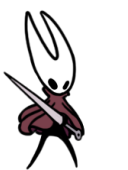
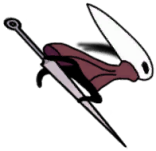
fix some bugs

diff --git a/SilkSong/Source/Project/Player.cpp b/SilkSong/Source/Project/Player.cpp
@@ -52,7 +52,7 @@ Player::Player()
 
 	rigid = GetComponentByClass<RigidBody>();
 	rigid->SetLinearDrag(0.07f);
-	rigid->SetGravity(2250);
+	rigid->SetGravity(2750);
 
 	camera = GetComponentByClass<Camera>();
 	camera->SetDistanceThreshold(100);
@@ -110,11 +110,11 @@ Player::Player()
 			Effect* effect = GameplayStatics::CreateObject<Effect>(GetWorldPosition() - FVector2D(GetWorldScale().x * 150, 0));
 			if (bGround)
 			{
-				effect->Init("effect_dash"); effect->SetLocalScale(GetWorldScale());
+				effect->Init("effect_dash", -0.03f); effect->SetLocalScale({ -GetWorldScale().x,1.f }); effect->AddPosition({ -GetWorldScale().x * 125,-50 });
 			}
 			else
 			{
-				effect->Init("effect_dash_", -0.03f); effect->SetLocalScale({ -GetWorldScale().x,1.f }); effect->AddPosition({ -GetWorldScale().x * 125,-50 });
+				effect->Init("effect_airdash", -0.02f); effect->SetLocalScale(GetWorldScale()); 
 			}
 			bDashing = true;
 		});
@@ -134,8 +134,8 @@ Player::Player()
 			Dart* dart = GameplayStatics::CreateObject<Dart>(GetWorldPosition());
 			if (dart)dart->Init(GetWorldScale().x < 0);
 			Effect* effect = GameplayStatics::CreateObject<Effect>(GetWorldPosition());
-			effect->Init("effect_throw", -0.02f); effect->SetLocalScale(GetLocalScale());
-			effect->AddPosition({GetLocalScale().x * 50,0});
+			effect->Init("effect_throw", -0.02f); effect->SetLocalScale(GetLocalScale() * 0.9f);
+			effect->AddPosition({GetLocalScale().x * 75,0});
 			AddDart(-1);
 		});
 	ani->needleSpawn.Bind([this]()
@@ -416,11 +416,11 @@ void Player::SetupInputComponent(InputComponent* inputComponent)
 		if (bGround)
 		{
 			bGround = false; SpawnWetLandEffect();
-			rigid->AddImpulse({ 0,-750 });
+			rigid->AddImpulse({ 0,-1250 });
 			if (bRushing)ani->PlayMontage("rushjump");
 			else ani->PlayMontage("jump");
 			lastJumpTime = GameplayStatics::GetTimeSeconds();
-			int32 jumpNum = FMath::RandInt(0, 25);
+			int32 jumpNum = FMath::RandInt(0, 35);
 			if (jumpNum < 3)GameModeHelper::PlayFXSound("voice_jump_0");
 			else if (jumpNum < 6)GameModeHelper::PlayFXSound("voice_jump_1");
 			else if (jumpNum < 9)GameModeHelper::PlayFXSound("voice_jump_2");
@@ -430,10 +430,10 @@ void Player::SetupInputComponent(InputComponent* inputComponent)
 		else if (bWall)
 		{
 			AddPosition(FVector2D(GetWorldScale().x * 10.f, -10.f));
-			rigid->AddImpulse(FVector2D(GetWorldScale().x * 500, -650)); 
+			rigid->AddImpulse(FVector2D(GetWorldScale().x * 500, -750)); 
 			ani->PlayMontage("jump");
 			lastJumpTime = GameplayStatics::GetTimeSeconds();
-			int32 jumpNum = FMath::RandInt(0, 25);
+			int32 jumpNum = FMath::RandInt(0, 35);
 			if (jumpNum < 3)GameModeHelper::PlayFXSound("voice_jump_0");
 			else if (jumpNum < 6)GameModeHelper::PlayFXSound("voice_jump_1");
 			else if (jumpNum < 9)GameModeHelper::PlayFXSound("voice_jump_2");
@@ -447,14 +447,14 @@ void Player::SetupInputComponent(InputComponent* inputComponent)
 		{
 			float delta = GameplayStatics::GetTimeSeconds() - lastJumpTime;
 			bGround = false; ani->SetBool("flying", true); 
-			rigid->AddImpulse(FVector2D(0, -(6.f - FMath::Log(1 + delta < 0.06f ? 0 : FMath::Abs(rigid->GetVelocity().y)) / FMath::Log(10)) / jumpFlag));
+			rigid->AddImpulse(FVector2D(0, -(3.5f - FMath::Log(1 + delta < 0.06f ? 0 : FMath::Abs(rigid->GetVelocity().y)) / FMath::Log(10)) / jumpFlag));
 		}
 		});
 	inputComponent->BindAction("JumpEnd", EInputType::Released, [this]() {
 		if (bSitting || bWall) return;
-		if (rigid->GetVelocity().y < 0 && GameplayStatics::GetTimeSeconds() - lastJumpTime < 0.3f)
+		if (rigid->GetVelocity().y < 0 && GameplayStatics::GetTimeSeconds() - lastJumpTime < 0.25f)
 		{
-			rigid->SetVelocity(FVector2D(rigid->GetVelocity().x, -rigid->GetVelocity().y * 0.05f));
+			rigid->SetVelocity(FVector2D(rigid->GetVelocity().x, FMath::Clamp(-rigid->GetVelocity().y * 0.2f, 0.f, 800.f)));
 		}
 		});
 	inputComponent->BindAction("Attack", EInputType::Pressed, [this]() {
@@ -552,7 +552,7 @@ void Player::SetupInputComponent(InputComponent* inputComponent)
 		lastThrowTime = GameplayStatics::GetTimeSeconds();
 		ani->PlayMontage("throw"); 
 		GameModeHelper::PlayFXSound("sound_throw");
-		if (FMath::RandInt(0, 10) > 6)GameModeHelper::PlayFXSound("voice_throw");
+		if (FMath::RandInt(0, 11) > 8)GameModeHelper::PlayFXSound("voice_throw");
 		});
 	inputComponent->BindAction("Leave", EInputType::Pressed, [this]() {
 		if (bSitting || bWall) return;
@@ -613,8 +613,8 @@ void Player::OnEnter(Collider* hitComp, Collider* otherComp, Actor* otherActor, 
 		}
 		else
 		{
-			if (rigid->GetVelocity().y > 1350)GameModeHelper::PlayFXSound("sound_hardland");
-			else if (rigid->GetVelocity().y > 700)GameModeHelper::PlayFXSound("sound_softland");
+			if (rigid->GetVelocity().y > 1500)GameModeHelper::PlayFXSound("sound_hardland");
+			else if (rigid->GetVelocity().y > 800)GameModeHelper::PlayFXSound("sound_softland");
 			else GameModeHelper::PlayFXSound("sound_land");
 		}
 	}

diff --git a/SilkSong/Source/Engine/Tools/ResourceManager.cpp b/SilkSong/Source/Engine/Tools/ResourceManager.cpp
@@ -24,11 +24,11 @@ void ResourceManager::Initialize()
 	Load("player_jump", "Asset/Animations/Player/Jump/", { {124,160},{120,172},{116,172},{104,168},{108,168},{143,163} });
 	Load("player_rushjump", "Asset/Animations/Player/RushJump/", { {171,115},{204,144},{198,180},{186,183},{186,192},{195,195},
 		{198,183},{124,182},{140,171},{146,168},{198,180},{104,168},{108,168},{143,163} });
-	Load("player_fall", "Asset/Animations/Player/Fall/", 132, 168, 4);
+	Load("player_fall", "Asset/Animations/Player/Fall/", { {132,168},{147,157},{132,148},{140,146},{148,152} });
 	Load("player_softland", "Asset/Animations/Player/SoftLand/", { {152,166},{152,166},{152,166},{137,161},{147,160} });
 	Load("player_hardland", "Asset/Animations/Player/HardLand/", 164, 152, 4);
-	Load("player_attack_0", "Asset/Animations/Player/Attack_0/", { {122,162},{364,183},{321,178},{300,178},{174,144},{152,166} });
-	Load("player_attack_1", "Asset/Animations/Player/Attack_1/", { {122,162},{315,156},{321,159},{321,159},{174,144},{152,166} });
+	Load("player_attack_0", "Asset/Animations/Player/Attack_0/", { {122,162},{364,183},{321,178},{300,178},{174,144} });
+	Load("player_attack_1", "Asset/Animations/Player/Attack_1/", { {122,162},{315,156},{321,159},{321,159},{174,144} });
 	Load("player_attackup", "Asset/Animations/Player/AttackUp/", { {160,188},{184,389},{184,222},{184,269},{152,168} });
 	Load("player_attackdown", "Asset/Animations/Player/AttackDown/", { {111,193},{103,196},{250,263},{225,225},{192,143} });
 	Load("player_rushattack", "Asset/Animations/Player/RushAttack/", { {166,156},{155,176},{180,176},{300,164},{339,164},{400,120},{400,121},{109,121},{174,148} });
@@ -39,7 +39,7 @@ void ResourceManager::Initialize()
 	Load("player_cure", "Asset/Animations/Player/Cure/", { {343,252},{565,570},{580,490},{450,495},{451,495},{451,216},{155,250},{114,225},
 		{433,360},{444,368},{963,660},{1040,600},{1035,600},{1025,520} });
 	Load("player_hurt", "Asset/Animations/Player/Hurt/", 228, 172, 6);
-	Load("player_throw", "Asset/Animations/Player/Throw/", { {127,170}, {127,170}, {127,170}, {127,170}, {104,142}, {104,142}, {104,142}, {104,142}, {177,163},{177,163},{177,163},{177,163} });
+	Load("player_throw", "Asset/Animations/Player/Throw/", { {112,174}, {156,151}, {176,142}, {161,144}, {174,148} });
 	Load("player_grab", "Asset/Animations/Player/Grab/", { {140,180}, {141,198}, {142,194}, {138,196}, {170,134}, {160,110}, {170,120}, {184,132}, {174,166} });
 	Load("player__closeskill", "Asset/Animations/Player/_CloseDisSkill/", 179, 152, 3);
 	Load("player_closeskill", "Asset/Animations/Player/CloseDisSkill/", 179, 152, 7);
@@ -63,8 +63,8 @@ void ResourceManager::Initialize()
 	Load("player_scare", "Asset/Animations/Player/Scare.png", 164, 164, 1, 1, 1);
 
 	//Effect
-	Load("effect_dash", "Asset/Animations/Player/DashEffect/", 342, 433, 5);
-	Load("effect_dash_", "Asset/Animations/Player/DashEffect_.png", 1280, 856, 6, 3, 2);
+	Load("effect_dash", "Asset/Animations/Player/DashEffect.png", 1280, 856, 6, 3, 2);
+	Load("effect_airdash", "Asset/Animations/Player/AirDashEffect/", 342, 433, 5);
 	Load("effect_hurt", "Asset/Animations/Player/HurtEffect/", 1400, 470, 4);
 	Load("effect_hurt_", "Asset/Animations/Player/HurtEffect_/", 308, 270, 7);
 	Load("effect_wetland", "Asset/Animations/Player/WetLandEffect/", 115, 34, 5);

diff --git a/SilkSong/Source/Project/PlayerAnimator.cpp b/SilkSong/Source/Project/PlayerAnimator.cpp
@@ -11,19 +11,20 @@ PlayerAnimator::PlayerAnimator()
 	walk.Load("player_walk");
 	walk.SetInterval(0.085f);
 	walkstart.Load("player_walkstart");
-	walkstart.SetInterval(0.04f);
+	walkstart.SetInterval(0.03f);
 	walkend.Load("player_walkend");
-	walkend.SetInterval(0.06f);
+	walkend.SetInterval(0.05f);
 	rush.Load("player_rush", { 0,15 });
 	rush.SetInterval(0.075f);
 	turn.Load("player_turn");
 	turn.SetInterval(0.08f);
 	jump.Load("player_jump");
-	jump.SetInterval(0.07f);
+	jump.SetInterval(0.06f);
 	rushjump.Load("player_rushjump");
 	rushjump.SetInterval(0.04f);
 	fall.Load("player_fall");
-	fall.SetInterval(0.08f);
+	fall.SetInterval(0.06f);
+	fall.SetLooping(false);
 	hardland.Load("player_hardland");
 	hardland.SetInterval(0.09f);
 	softland.Load("player_softland");
@@ -192,6 +193,9 @@ void PlayerAnimator::BeginPlay()
 	dash_to_idle.Init(dash, idle);
 	airdash_to_fall.Init(airdash, fall);
 	throw_to_idle.Init(throw_, idle);
+	throw_to_softland.Init(throw_, softland);
+	throw_to_softland.AddCondition(AnimTransition::Bool{ "flying",false });
+	throw_to_softland.AddCondition(AnimTransition::Float{ "walkingSpeed",10.f,TransitionComparison::Less });
 	grab_to_idle.Init(grab, idle);
 	rapidskill_to_idle.Init(rapidskill, idle);
 	remoteskill_to_idle.Init(remoteskill, idle);
@@ -221,11 +225,11 @@ void PlayerAnimator::BeginPlay()
 	rush_to_fall.AddCondition(AnimTransition::Bool{ "flying",true });
 
 	fall_to_hardland.Init(fall, hardland);
-	fall_to_hardland.AddCondition(AnimTransition::Float{ "landingSpeed",1350.f,TransitionComparison::Greater });
+	fall_to_hardland.AddCondition(AnimTransition::Float{ "landingSpeed",1500.f,TransitionComparison::Greater });
 
 	fall_to_softland.Init(fall, softland);
-	fall_to_softland.AddCondition(AnimTransition::Float{ "landingSpeed",1350.f,TransitionComparison::LessEqual });
-	fall_to_softland.AddCondition(AnimTransition::Float{ "landingSpeed",700.f,TransitionComparison::Greater });
+	fall_to_softland.AddCondition(AnimTransition::Float{ "landingSpeed",1500.f,TransitionComparison::LessEqual });
+	fall_to_softland.AddCondition(AnimTransition::Float{ "landingSpeed",800.f,TransitionComparison::Greater });
 	fall_to_softland.AddCondition(AnimTransition::Float{ "walkingSpeed",100.f,TransitionComparison::Less });
 
 	fall_to_idle.Init(fall, idle);
@@ -291,7 +295,7 @@ void PlayerAnimator::BeginPlay()
 		rush.AddNotification(3, wetWalkEffect);
 		rush.AddNotification(7, wetWalkEffect);
 		closeskill.OnAnimExit.Bind([=]() {player->SetFloating(false); });
-		throw_.AddNotification(3, dartSpawn);
+		throw_.AddNotification(2, dartSpawn);
 		grab.AddNotification(3, grabStart);
 		grab.AddNotification(5, grabFinished);
 		grab.OnAnimExit.Bind([=]() {player->EnableInput(true); });

diff --git a/SilkSong/Source/Project/NightMare.cpp b/SilkSong/Source/Project/NightMare.cpp
@@ -125,7 +125,7 @@ NightMare::NightMare()
 	airdash.OnAnimEnter.Bind([this]() {
 		rigid->AddImpulse(FVector2D(-GetWorldScale().x, 1) * 10000 * 2500);
 		box->SetSize({ 40,120 }); SetLocalRotation(-45.f);
-		GameplayStatics::CreateObject<Effect>(GetWorldPosition(), GetWorldScale().x < 0 ? -45.f : -135.f)->Init("effect_dash");
+		GameplayStatics::CreateObject<Effect>(GetWorldPosition(), GetWorldScale().x < 0 ? -45.f : -135.f)->Init("effect_airdash");
 		GameModeHelper::PlayFXSound("sound_nightmare_airdash");
 		});
 	airdash.OnAnimExit.Bind([this]() { SetLocalRotation(0); rigid->SetVelocity({}); });
@@ -139,7 +139,7 @@ NightMare::NightMare()
 
 	dash.OnAnimEnter.Bind([this]() {
 		rigid->AddImpulse(FVector2D(-GetWorldScale().x * 0.75f, 0) * 10000 * 2500);
-		GameplayStatics::CreateObject<Effect>(GetWorldPosition() - FVector2D(0, 25), 0, GetWorldScale())->Init("effect_dash_", -0.02f);
+		GameplayStatics::CreateObject<Effect>(GetWorldPosition() - FVector2D(0, 25), 0, GetWorldScale())->Init("effect_dash", -0.02f);
 		GameModeHelper::PlayFXSound("sound_nightmare_dash");
 		});
 	dash.OnAnimExit.Bind([this]() {rigid->SetVelocity({});});
@@ -389,7 +389,7 @@ void NightMare::OnHit(Collider* hitComp, Collider* otherComp, Actor* otherActor,
 		{
 			GameplayStatics::PlayCameraShake(8, 4);
 			ani->PlayMontage("startdash");
-			GameplayStatics::CreateObject<Effect>(GetWorldPosition() + FVector2D(0, 25), -90, FVector2D(1.75f, 0.5f))->Init("effect_dash", -0.02f);
+			GameplayStatics::CreateObject<Effect>(GetWorldPosition() + FVector2D(0, 25), -90, FVector2D(1.75f, 0.5f))->Init("effect_airdash", -0.02f);
 		}
 		else if (normalImpulse.y > 0 && ani->IsPlaying("uppercut"))
 		{

diff --git a/SilkSong/Source/Project/Fly.cpp b/SilkSong/Source/Project/Fly.cpp
@@ -60,7 +60,7 @@ void Fly::Update(float deltaTime)
 
 	if (IsDead() || !player)return;
 
-	if (FVector2D::Distance(player->GetWorldPosition(), GetWorldPosition()) < 400)
+	if (FVector2D::Distance(player->GetWorldPosition(), GetWorldPosition()) < 500)
 	{
 		if ((player->GetWorldPosition() - GetWorldPosition()).x * GetWorldScale().x < 0)
 		{

diff --git a/SilkSong/Source/Project/PlayerAnimator.h b/SilkSong/Source/Project/PlayerAnimator.h
@@ -102,6 +102,7 @@ private:
 	AnimEdge cure_to_idle;
 	AnimEdge hurt_to_idle;
 	AnimEdge throw_to_idle;
+	AnimEdge throw_to_softland;
 	AnimEdge grab_to_idle;
 	AnimEdge _closeskill_to_closeskill;
 	AnimEdge closeskill_to_idle;

diff --git a/README.md b/README.md
@@ -21,13 +21,13 @@ Engine（仅适用于开发简易 2D 游戏） 部分有渲染系统、粒子系
 ```C++
 void Player::SetupInputComponent(InputComponent* inputComponent)
 {
-	inputComponent->SetMapping("WalkLeft", EKeyCode::VK_A);
+    inputComponent->SetMapping("WalkLeft", EKeyCode::VK_A);
     //......
 
 	inputComponent->BindAction("WalkLeft", EInputType::Holding, [this]() 
-         {
+    {
 		//......
-		});
+	});
     //......
 }
 ```
